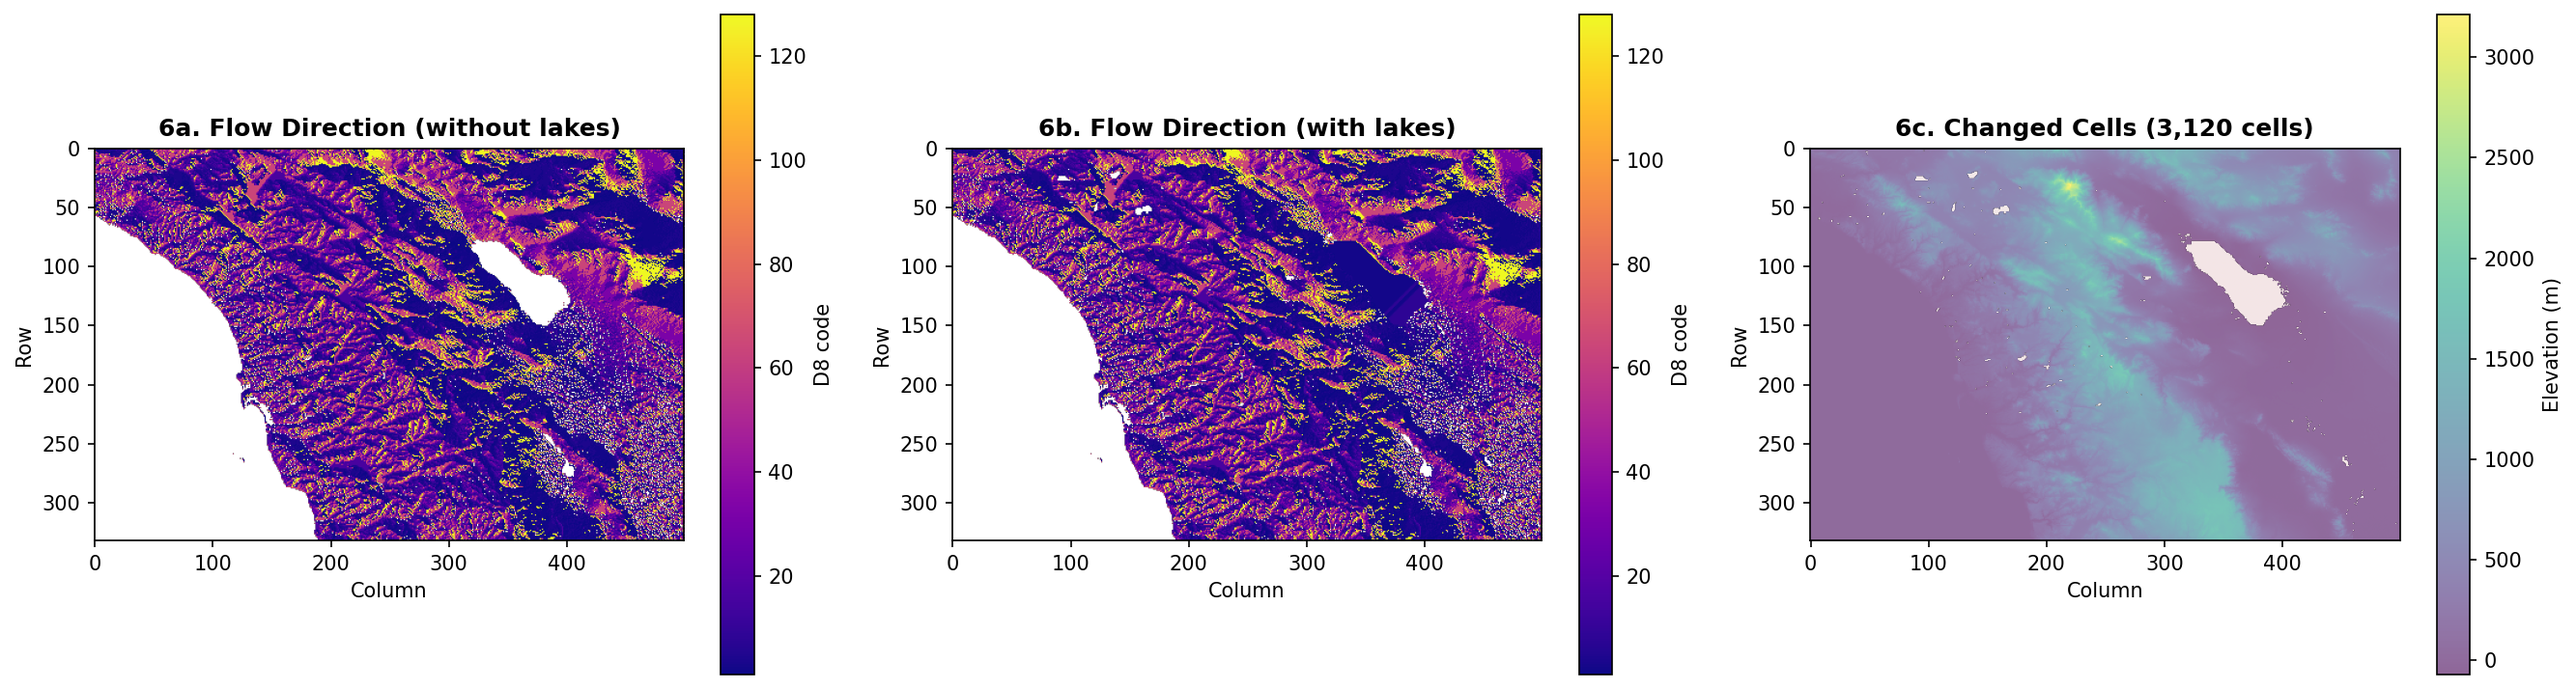
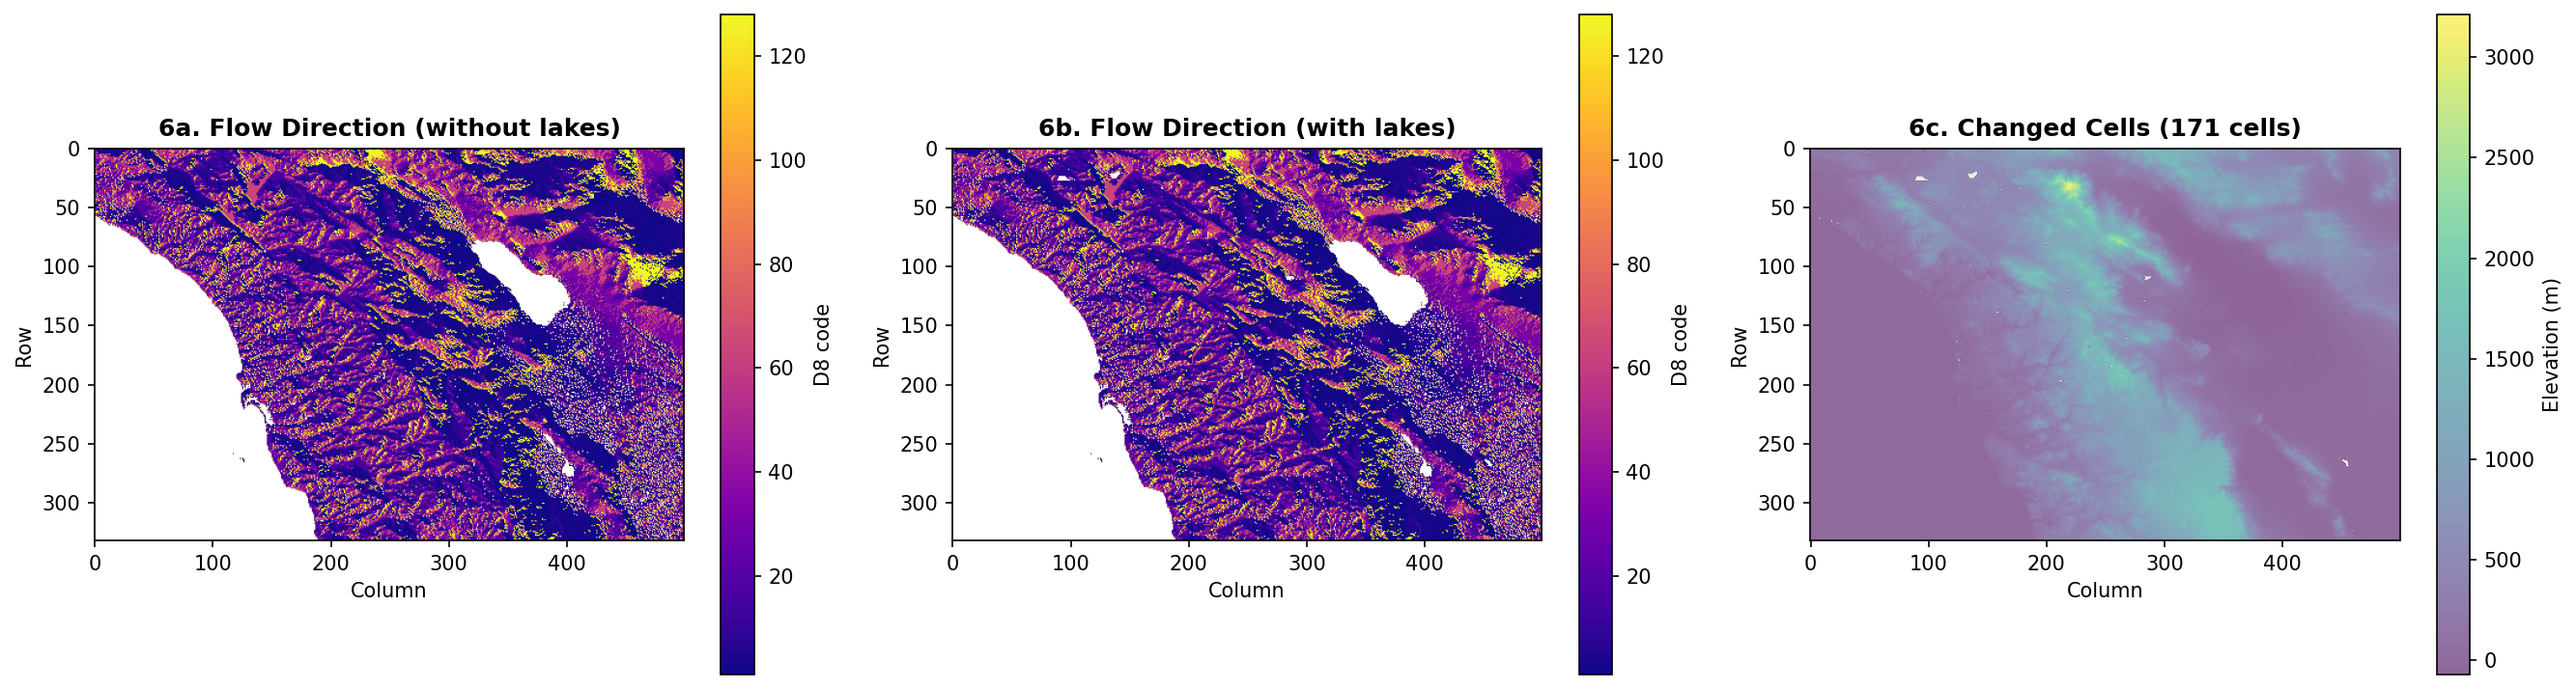
fix: skip lake routing for water bodies inside endorheic basins
Prevent conflicting flow directions when water bodies (like the Salton Sea)
are located inside preserved endorheic basins.

Problem: Lakes inside basins were getting explicit outlet routing overlaid
on top of natural basin topography, creating artificial flow lines cutting
across the water body.

Solution: Detect lakes that fall within preserved basins and skip explicit
routing for those. They use natural basin flow instead. Only apply explicit
outlet routing for lakes outside preserved basins (small alpine lakes, etc).

Benefits:
- Salton Sea and similar endorheic water bodies now flow naturally
- No more conflicting flow directions across water bodies in basins
- Small lakes outside basins still get explicit outlet routing
- Cleaner flow patterns and better physical accuracy

Testing:
- Salton Sea: 70 cells inside basin → natural flow
- Other lakes: 191 cells outside basin → explicit outlet routing
- Status: PASS (0 cycles, 100% mass balance, 0 violations)

Changed region(s): [[0.7158, 0.1541, 0.9025, 0.2157], [0.8403, 0.3389, 0.9025, 0.4622], [0.4979, 0.3389, 0.5602, 0.4622]]

diff --git a/examples/validate_flow_with_water_bodies.py b/examples/validate_flow_with_water_bodies.py
@@ -804,18 +804,48 @@ def main():
     print("\n6. Computing drainage area (without lakes)...")
     drainage_area_no_lakes = compute_drainage_area(flow_dir_no_lakes)
 
-    # Step 7: Apply lake routing
+    # Step 7: Apply lake routing (with endorheic basin awareness)
     if lake_mask is not None and lake_outlets is not None:
         print("\n7. Applying lake flow routing...")
-        lake_flow = create_lake_flow_routing(lake_mask, lake_outlets, dem_conditioned)
 
-        # Merge: lake cells use lake_flow, others keep terrain_flow
-        flow_dir = np.where(lake_mask > 0, lake_flow, flow_dir_no_lakes)
+        # Check which lakes are inside preserved endorheic basins
+        lakes_in_basin = None
+        lakes_outside_basin = lake_mask.copy()
+
+        if basin_mask is not None and np.any(basin_mask):
+            lakes_in_basin = lake_mask & basin_mask
+            lakes_outside_basin = lake_mask & ~basin_mask
+
+            num_lakes_in = len(np.unique(lakes_in_basin[lakes_in_basin > 0]))
+            num_lakes_out = len(np.unique(lakes_outside_basin[lakes_outside_basin > 0]))
+            cells_in = np.sum(lakes_in_basin > 0)
+            cells_out = np.sum(lakes_outside_basin > 0)
+
+            if num_lakes_in > 0:
+                print(f"   Found {num_lakes_in} water bodies INSIDE preserved basins ({cells_in:,} cells)")
+                print(f"   These will use natural basin flow (no explicit routing)")
+
+            if num_lakes_out > 0:
+                print(f"   Found {num_lakes_out} water bodies OUTSIDE basins ({cells_out:,} cells)")
+                print(f"   These will use explicit outlet routing")
+
+        # Apply explicit routing only to lakes outside basins
+        if lakes_outside_basin is not None and np.any(lakes_outside_basin):
+            # Create mask of outlets only for lakes outside basins
+            lake_outlets_outside = lake_outlets & ~basin_mask if basin_mask is not None else lake_outlets
+
+            lake_flow = create_lake_flow_routing(lakes_outside_basin, lake_outlets_outside, dem_conditioned)
+            flow_dir = np.where(lakes_outside_basin > 0, lake_flow, flow_dir_no_lakes)
+
+            num_outlets_outside = np.sum(lake_outlets_outside)
+            print(f"   Applied explicit routing to {np.sum(lakes_outside_basin > 0):,} cells with {num_outlets_outside} outlets")
+        else:
+            flow_dir = flow_dir_no_lakes
 
         num_lakes = len(np.unique(lake_mask[lake_mask > 0]))
         num_outlets = np.sum(lake_outlets)
         lake_cells = np.sum(lake_mask > 0)
-        print(f"   Routed {num_lakes} lakes ({lake_cells:,} cells) with {num_outlets} outlets")
+        print(f"   Total lakes processed: {num_lakes} ({lake_cells:,} cells)")
     else:
         print("\n7. Skipping lake routing (no lakes detected)")
         flow_dir = flow_dir_no_lakes
